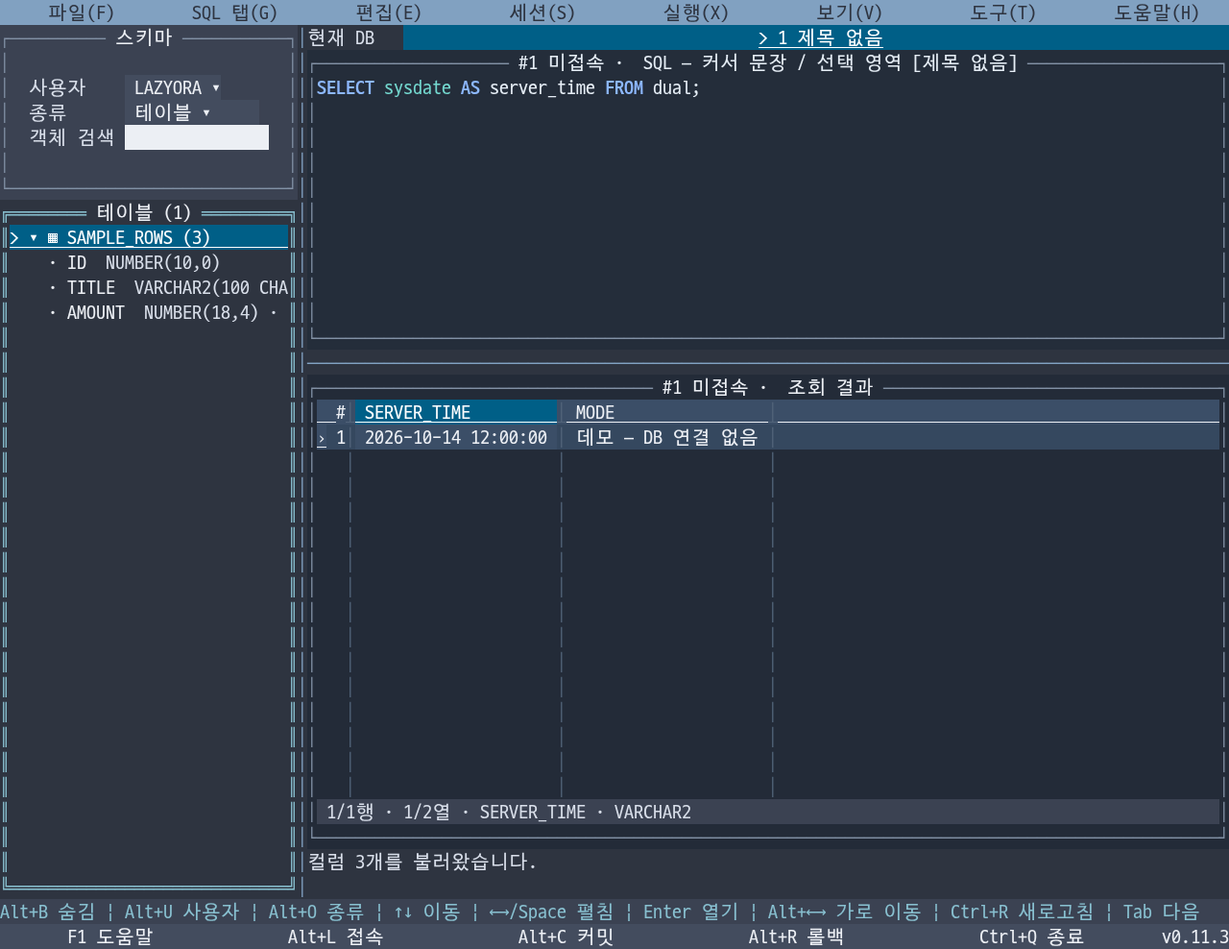
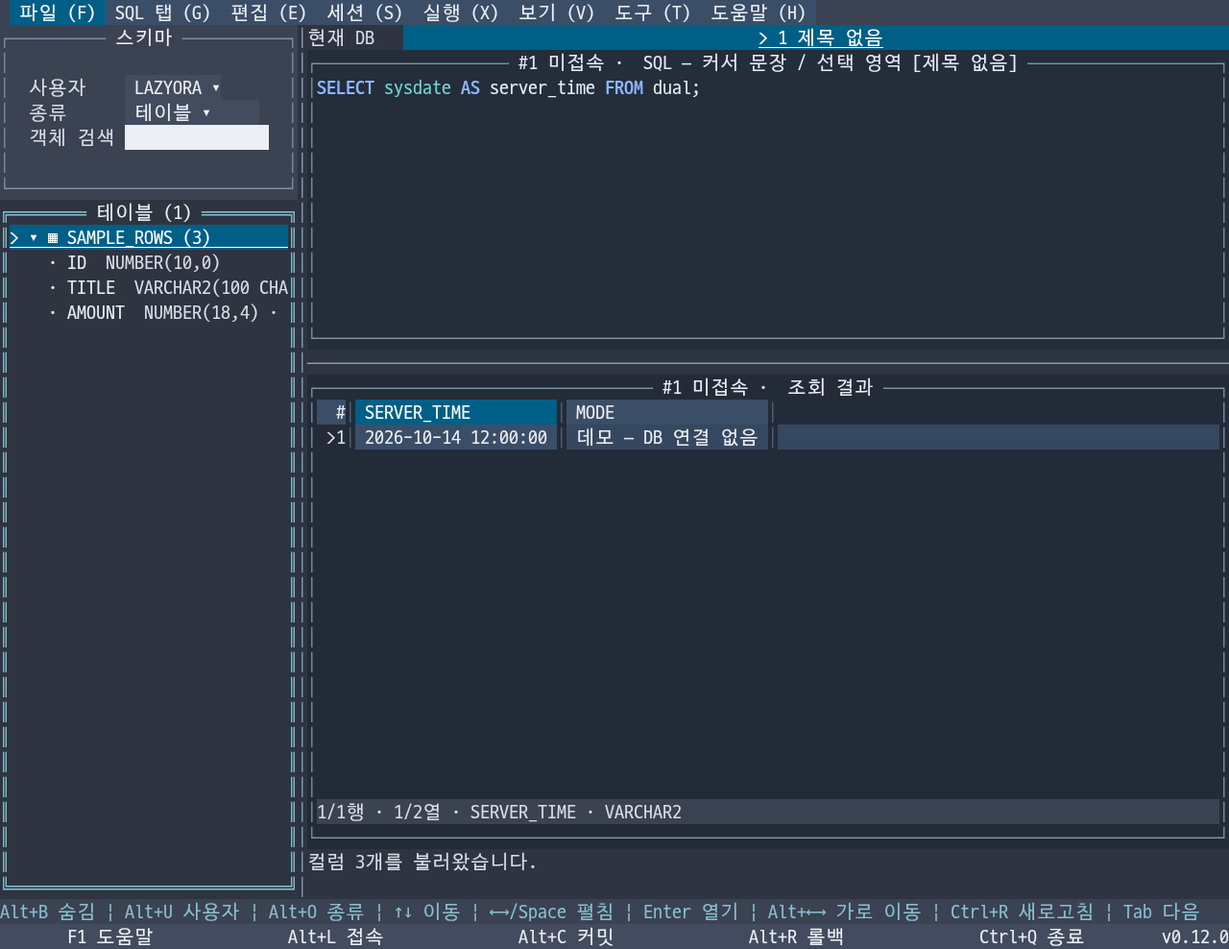
chore: LORA-76 v0.12.0 릴리스와 한영 안내 및 화면 준비

diff --git a/internal/appinfo/info.go b/internal/appinfo/info.go
@@ -4,7 +4,7 @@ package appinfo
 const (
 	ProjectURL = "https://github.com/leechis7/lazyora"
 	Name       = "LazyOra"
-	Version    = "0.11.3"
+	Version    = "0.12.0"
 	Developer  = "이채강 (Chaekang Lee)"
 	Email      = "leechis7@gmail.com"
 	License    = "AGPL-3.0-only"

diff --git a/docs/releases/v0.12.0.md b/docs/releases/v0.12.0.md
@@ -1,0 +1,32 @@
+[한국어](v0.12.0.md) | [English](../en/releases/v0.12.0.md)
+
+LazyOra v0.12.0은 공개 Tuivory Go v0.4.0의 공통 메뉴·결과 그리드와 표면 스타일을 적용한 기능 릴리스입니다.
+
+### 변경
+
+- 공통 메뉴 막대·중첩 메뉴·뒤로 이동·구분선·비활성 표시·포인터 탐색을 사용합니다. F10·Shift+F10·Alt 진입, ←/→ 상위 메뉴 이동, 원래 창 포커스 복원은 유지합니다.
+- 결과 본체를 같은 공통 Grid의 data 프리셋/옵션으로 그립니다. 행 번호·구분선·줄무늬·숫자 정렬·현재/범위/변경 셀·상태줄을 연결하고, **헤더의 컬럼 구분선을 드래그해 열 너비를 조절**할 수 있습니다. 기존 너비 명령도 유지합니다.
+- 메뉴 단일선·제목·배경·한글 경계 보호를 공개 PanelView에 맡기고 별도 테두리 우회 구성을 제거했습니다. 일반 포커스 패널의 이중선은 유지합니다.
+- 일반 글자를 실제 표면에 맞추고 비활성 항목은 회색/Dim으로 표시합니다. 비활성 접두사를 제거하고 클릭·포커스·실행은 차단합니다. 8색 Dim의 실제 밝기는 터미널에 따라 다릅니다.
+- 현재 행 표식은 `>`, 공통 폭 생략은 `~`입니다. 미커밋 셀 배경·상태줄 `*`는 유지하고 행번호 `*`는 생략합니다. 원본 값·ROWID 매핑·편집 확인·커밋/롤백·복사·내보내기와 기존 전역 단축키를 보존합니다.
+- 한영 사용/내장 가이드·README 및 실제 실행파일의 데모 화면을 갱신했습니다.
+
+### 검증과 범위
+
+전체 로컬 Go race(UI 208.583초), 정적 분석·Linux ARM64 빌드, 24개 언어/테마/색상 조합 및 새 12팔레트 비활성/표면 검사를 통과했습니다. 설정·DB 환경을 격리한 실제 한글/영어 Unicode·영어 ASCII PTY에서 일반 화면과 열린 메뉴의 총24회 SIGWINCH 크기 변경 이후 메뉴·복사·상세·접속 팝업·정상 종료와 설정 보존을 확인했습니다. 릴리스 버전·내장 문서·캡처도 추가 확인합니다.
+
+GitHub CI·Release는 전체 검사와 Linux/Windows/macOS AMD64/ARM64 빌드를 수행합니다. 실제 원격 단말·폰트·CentOS·다른 OS의 UI·새 Oracle 실DB 접속은 이번 검증과 구분합니다. Tuivory의 private playground 리사이즈 수정 코드를 복사하지 않았으며 LazyOra 자체 앱을 시험했습니다. 남은 LORA-76 앱 패널/분할/하단 개선은 이번 릴리스로 완료하지 않습니다.
+
+### 다운로드
+
+OS·CPU에 맞는 실행파일 하나와 `SHA256SUMS`를 확인하세요. Linux/macOS에서는 실행 권한을 부여합니다.
+
+- Linux: `lazyora-linux-amd64`, `lazyora-linux-arm64`
+- Windows: `lazyora-windows-amd64.exe`, `lazyora-windows-arm64.exe`
+- macOS: `lazyora-darwin-amd64`, `lazyora-darwin-arm64`
+
+### English summary
+
+LazyOra v0.12.0 adopts public Tuivory Go v0.4.0 menus, configurable result grids, single menu borders, surface-aware text and improved disabled cues. Drag header dividers to resize columns; retain existing shortcuts, original-value copy, guarded ROWID editing and transactions. Current-row/clipping markers are `>`/`~`; edited cells retain background/status `*`. See the [English release notes](https://github.com/leechis7/lazyora/blob/v0.12.0/docs/en/releases/v0.12.0.md).
+
+[전체 변경 이력](https://github.com/leechis7/lazyora/blob/v0.12.0/CHANGELOG.md)

diff --git a/docs/development.md b/docs/development.md
@@ -78,7 +78,7 @@ GitHub에서 CI 성공을 병합의 필수 조건으로 강제하려면 `dev`와
 
 ## Tuivory 스타일 가이드 반영
 
-Tuivory 자체 개발은 별도 프로젝트에서 진행합니다. 정식 v0.11.2는 `github.com/leechis7/tuivory/go v0.2.0`을 포함합니다. 개발 의존성과 공통 UI 우선 원칙은 아래 항목을 따릅니다. LazyOra에서는 공개 Go 스타일 패키지를 import하고, 검토한 버전의 변경을 LORA 일감에서 적용·검증합니다. Tuivory 소스를 복사하거나 로컬 경로로 replace하지 않습니다. 출처 커밋, 변경 원칙, LazyOra 적용 위치, 검증과 보류 사유는 [반영 기록](tuivory-sync.md)에 남깁니다. 공통 가이드와 Oracle/Toad 관련 제품 동작을 구분하며 커밋·게시·릴리스 승인은 기존 절차를 따릅니다.
+Tuivory 자체 개발은 별도 프로젝트에서 진행합니다. v0.12.0은 `github.com/leechis7/tuivory/go v0.4.0`을 포함합니다. 개발 의존성과 공통 UI 우선 원칙은 아래 항목을 따릅니다. LazyOra에서는 공개 Go 스타일 패키지를 import하고, 검토한 버전의 변경을 LORA 일감에서 적용·검증합니다. Tuivory 소스를 복사하거나 로컬 경로로 replace하지 않습니다. 출처 커밋, 변경 원칙, LazyOra 적용 위치, 검증과 보류 사유는 [반영 기록](tuivory-sync.md)에 남깁니다. 공통 가이드와 Oracle/Toad 관련 제품 동작을 구분하며 커밋·게시·릴리스 승인은 기존 절차를 따릅니다.
 
 
 ## 한국어·영어 문서 유지
@@ -94,4 +94,4 @@ Tuivory 자체 개발은 별도 프로젝트에서 진행합니다. 정식 v0.11
 
 공통 그리기·테두리/겹침 보호·컨트롤·스타일은 공개 Tuivory API를 먼저 확인해 사용합니다. 같은 결함을 LazyOra와 Tuivory에 별도로 고치지 않습니다. 공통 API가 없으면 별도 Tuivory 프로젝트에서 제공할 범위를 정하고, 제공 후 LazyOra에서 어댑터로 연결합니다. Oracle 실행·트랜잭션·탭/작업공간의 데이터 소유권·명령과 언어/ASCII 선호 정책은 제품 책임입니다. tview 위젯은 Tuivory Styler로 스타일을 적용하며, 새 모델/위젯으로 옮길 때 기존 입력·포커스·팝업 차단·복사·데이터 안전을 검증합니다.
 
-현재 공개 `github.com/leechis7/tuivory/go v0.2.0`(태그 `go/v0.2.0`, 커밋 `987d1a6786033a6bf063235b5e7fea7b565f0af0`)을 고정합니다. 팝업 전체는 `WideSafeScreen`, 폼/버튼 등의 제한 폭 라벨은 `CellText`에 위임합니다. 로컬 `popupFill`은 제거했습니다. v0.11.2에 포함되며 기존 v0.11.1 자산은 v0.1.0을 유지합니다. [적용·보류 검토](audits/lora-76-tuivory.md)를 참고하세요.
+현재 공개 `github.com/leechis7/tuivory/go v0.4.0`(태그 `go/v0.4.0`, 커밋 `fef7a7b2247d1c68ef0fb1469e6a2fc2e1cec9b5`)을 고정합니다. 공통 메뉴/그리드·메뉴 PanelView·TextOnSurface를 소비하고 폼 팝업 전체는 WideSafeScreen, 제한 폭 라벨은 CellText에 위임합니다. 독자 그리드 본체·메뉴 테두리 우회·popupFill을 제거했습니다. 현재 적용과 보류는 [반영 기록](tuivory-sync.md)을 참고하세요. 과거 v0.11.3은 v0.2.0을 포함하며 기존 자산은 바꾸지 않습니다.

diff --git a/docs/en/usage.md b/docs/en/usage.md
@@ -2,7 +2,7 @@
 
 [한국어](../usage.md) | **English** · [Documentation](index.md) · [Offline guide](../guide.en.md)
 
-This guide covers v0.11.2 workflows. Its input, selection, button, grid and popup styles use **Tuivory v0.2.0**, included in the executable. Choose Dark/Light/Black-White in Tools → Settings; terminal capability independently selects 8/16/256/True Color rendering. See [UI style rules](ui-style.md).
+This guide covers v0.12.0 workflows. Its input, selection, button, grid and popup styles use **Tuivory v0.4.0**, included in the executable. Choose Dark/Light/Black-White in Tools → Settings; terminal capability independently selects 8/16/256/True Color rendering. See [UI style rules](ui-style.md).
 
 v0.11.2 uses the published Tuivory **v0.2.0** tree. User/type selectors and live object filtering remain. On a table or view, use **Right/Space or click the disclosure arrow** to fetch columns and data types. **Left** collapses or moves to the parent; **Alt+Left/Right** pans long names. **Enter or clicking a name** opens the existing object details. Columns are fetched on expansion and cached for the current list; Ctrl+R refresh, owner changes and reconnects clear the cache. Collapse and re-expand after failure/cancellation to retry. Existing Esc cancellation and work-protection rules apply during queries.
 
@@ -110,10 +110,10 @@ Ctrl+C copies retained output, Alt+D clears the display and Esc closes the view 
 
 For password storage, terminal key mappings and environment-specific evidence, see [Credentials](credentials.md), [Terminal troubleshooting](terminal.md) and [Compatibility](compatibility.md).
 
-### Menus and result grid in unreleased sources
+### Menus and result grid in v0.12.0
 
 Current sources use the common Tuivory v0.4.0 menu/grid. Navigate menus with Up/Down, Home/End and PgUp/PgDn; Enter invokes a command or enters a child group. Disabled entries are skipped and cannot execute by click. Left/Esc or Back returns to the parent; top-level Esc restores the calling panel. Right retains the existing next-top-level-menu policy.
 
-Drag a column divider in the grid header to resize; existing width menus/keyboard commands remain. The current-row marker is `>` and long cells/menus use `~` for clipping. Enter/double-click editing, Shift+arrows/mouse ranges, row-number row selection, Ctrl+C/Alt+Y original-value copying, F10 menu and F12 result maximization remain. Edited-cell backgrounds and status `*` indicate uncommitted work; row-number `*` is omitted. These changes are not in the released v0.11.3 assets yet.
+Drag a column divider in the grid header to resize; existing width menus/keyboard commands remain. The current-row marker is `>` and long cells/menus use `~` for clipping. Enter/double-click editing, Shift+arrows/mouse ranges, row-number row selection, Ctrl+C/Alt+Y original-value copying, F10 menu and F12 result maximization remain. Edited-cell backgrounds and status `*` indicate uncommitted work; row-number `*` is omitted. These changes are included in v0.12.0.
 
 In v0.4.0 the shared package renders menu single borders and clipped titles. Disabled entries use gray/Dim without an ordinary prefix and cannot be focused/activated. Eight-color Dim brightness depends on the terminal. Ordinary information text uses the actual card/panel background.

diff --git a/docs/ui-style.md b/docs/ui-style.md
@@ -4,7 +4,7 @@
 
 공통 설계 원칙의 상위 출처는 [Tuivory](https://github.com/leechis7/tuivory)입니다. LazyOra 적용 기준과 마지막 확인 커밋은 [Tuivory 가이드 반영 기록](tuivory-sync.md)에 남깁니다. 아래 문서는 LazyOra의 실제 컴포넌트·단축키·상태 처리에 맞춘 적용 규칙입니다.
 
-v0.11.2 공통 스타일의 원본은 **Tuivory v0.2.0** (`github.com/leechis7/tuivory/go`)입니다. 단일 공개 패키지 `tuivory`의 `Styles`, `Styler`, `Choice`와 상태 스타일 메서드를 import합니다. `internal/ui/style_tokens.go`는 패키지 값과 제품 역할을 연결하고, `theme.go`·`widgets.go`는 공통 API를 기존 위젯에 적용합니다. 실제 의존 버전은 `go.mod`와 [적용 기록](tuivory-sync.md)에 고정합니다.
+v0.12.0 공통 스타일의 원본은 **Tuivory v0.4.0** (`github.com/leechis7/tuivory/go`)입니다. 단일 공개 패키지 `tuivory`의 `Styles`, `Styler`, `Choice`와 상태 스타일 메서드를 import합니다. `internal/ui/style_tokens.go`는 패키지 값과 제품 역할을 연결하고, `theme.go`·`widgets.go`는 공통 API를 기존 위젯에 적용합니다. 실제 의존 버전은 `go.mod`와 [적용 기록](tuivory-sync.md)에 고정합니다.
 새 화면을 추가할 때 기본 tview 색상에 맡기지 않고 생성 시점부터 현재 테마를 적용합니다.
 
 | 역할 | 공통 표시 |
@@ -69,6 +69,6 @@ v0.11.2의 LORA-78 변경은 공통 Tuivory v0.2.0 트리의 ASCII 옵션과 Laz
 
 ## 개발 소스: 메뉴·그리드 컴포넌트
 
-미배포 소스는 Tuivory v0.4.0의 Menu/MenuView/MenuBarView 및 Grid/GridView(data 프리셋)를 사용합니다. 메뉴 항목·배치·앱 키·명령과 그리드 원본 데이터·편집·복사 정책은 LazyOra가 관리합니다. 본체 그리기·클리핑·범위/포인터 조작은 공개 컴포넌트에 위임합니다. 현재 행 표식은 `>`이며 변경 셀의 배경·상태줄 `*`를 사용합니다. 행 번호의 `*`는 표시하지 않습니다. [출처·표시 차이·검증](tuivory-sync.md)을 참고하세요.
+v0.12.0은 Tuivory v0.4.0의 Menu/MenuView/MenuBarView 및 Grid/GridView(data 프리셋)를 사용합니다. 메뉴 항목·배치·앱 키·명령과 그리드 원본 데이터·편집·복사 정책은 LazyOra가 관리합니다. 본체 그리기·클리핑·범위/포인터 조작은 공개 컴포넌트에 위임합니다. 현재 행 표식은 `>`이며 변경 셀의 배경·상태줄 `*`를 사용합니다. 행 번호의 `*`는 표시하지 않습니다. [출처·표시 차이·검증](tuivory-sync.md)을 참고하세요.
 
 메뉴 단일선·제목·배경은 공통 PanelView가 처리하며 앱의 별도 테두리 Box는 제거했습니다. 일반 텍스트는 TextOnSurface로 실제 표면에 연결합니다. 일반 글자 참조 대비 4.5:1을 유지하되 비활성은 공통 2:1 목표·회색/Dim·입력 차단으로 구분합니다. 8색 단말에서 Dim의 실제 밝기는 단말별로 다릅니다. 입력·선택·편집 배경은 덮어쓰지 않습니다.

diff --git a/README.en.md b/README.en.md
@@ -6,9 +6,9 @@
 
 LazyOra aims to make everyday Oracle development and inspection practical in a terminal, including over SSH, without installing Toad or purchasing its commercial license. It adapts familiar Toad workflows and shortcuts to a TUI. It is an independent project under active development, not a complete replacement for every Toad feature.
 
-Current version: **0.11.3** · **Linux / Windows / macOS · AMD64 / ARM64**
+Current version: **0.12.0** · **Linux / Windows / macOS · AMD64 / ARM64**
 
-v0.11.3 removes redundant schema-column icons to recover space for names and data types. See the [release notes](docs/en/releases/v0.11.3.md).
+v0.12.0 adopts Tuivory v0.4.0 common menus/results, header-divider resizing, single menu borders, surface-aware text and disabled cues. See the [release notes](docs/en/releases/v0.12.0.md).
 
 - Oracle SQL/PL/SQL syntax highlighting, files and multiple SQL tabs, cursor-statement execution, F5 scripts and IN bind variables.
 - Estimated execution plans, result copying, CSV/TSV/Excel/INSERT export, and manual commit/rollback.
@@ -16,9 +16,11 @@ v0.11.3 removes redundant schema-column icons to recover space for names and dat
 - DBMS_OUTPUT, routine execution, object DDL/privileges/dependencies, additional result fetching, sorting/filtering, cell details and guarded editing.
 - Toad (default), Vim, Notepad++, VS Code and IntelliJ IDEA editor keymaps; completion, formatting, dark/light/black-and-white themes, and Korean/English UI.
 
+v0.12.0 adopts Tuivory v0.4.0 common menus and result grids. Resize columns by dragging header dividers or using existing menus. See [scope and verification](docs/en/tuivory-sync.md).
+
 ![LazyOra: menus, schema browser, SQL editor, result grid and context-sensitive shortcuts](docs/images/lazyora-overview.png)
 
-*v0.11.3 · Dark theme · English UI · DB-free executable --demo output captured through a PTY.*
+*v0.12.0 · Dark theme · English UI · local DB-free executable --demo PTY capture.*
 
 ## Quick start
 
@@ -85,7 +87,7 @@ Korean remains the primary documentation language. Historical audits, detailed d
 
 ## Implementation and shared UI
 
-**In v0.11.2, [Tuivory](https://github.com/leechis7/tuivory) v0.2.0** provides common themes, color profiles, input/choice/button/table/popup styles, grid states and syntax colors through `github.com/leechis7/tuivory/go`. Release users do not install a separate package.
+**In v0.12.0, [Tuivory](https://github.com/leechis7/tuivory) v0.4.0** provides common themes, color profiles, input/choice/button/table/popup styles, grid states and syntax colors through `github.com/leechis7/tuivory/go`. Release users do not install a separate package.
 
 tview/tcell handle terminal rendering and input; go-ora handles Oracle communication. LazyOra retains SQL parsing for display, database execution and transactions, Toad keymaps, grid data and application state. See [UI style rules](docs/en/ui-style.md) and [Tuivory integration](docs/en/tuivory-sync.md).
 

diff --git a/docs/en/development.md b/docs/en/development.md
@@ -49,7 +49,7 @@ After publication, verify assets/checksums and the actual executable version, sy
 
 ## Dependencies and UI
 
-Published LazyOra v0.11.2 pins **Tuivory v0.2.0**, `github.com/leechis7/tuivory/go`, including its public tree component. LazyOra v0.11.0 includes the new tree. Develop Tuivory itself separately. Review public versions/commits and import the module; do not copy it or replace it with a local checkout. Record updates in [Tuivory integration](tuivory-sync.md) and use [UI adapters](ui-style.md).
+LazyOra v0.12.0 pins **Tuivory v0.4.0**, `github.com/leechis7/tuivory/go`, including its public tree component. LazyOra v0.11.0 includes the new tree. Develop Tuivory itself separately. Review public versions/commits and import the module; do not copy it or replace it with a local checkout. Record updates in [Tuivory integration](tuivory-sync.md) and use [UI adapters](ui-style.md).
 
 The tview v0.42.0 local fork adds SQL TextArea highlighting. Its source difference is confined to `textarea.go`; retain the upstream MIT notice and rendering checks. Workflow Actions are pinned to commit SHAs; Go toolchain versions are coordinated with `mise.toml`. Module downloads retry transient failures, but actual check failures remain failures.
 
@@ -63,4 +63,4 @@ Korean is primary. New/changed README, user/developer guidance and release descr
 
 Check and use public Tuivory APIs first for shared drawing, borders/overlap repair, controls and styles. Do not maintain independent fixes for the same defect in both projects. Define missing shared capabilities in the separate Tuivory project, then integrate published APIs through LazyOra adapters. Oracle execution/transactions, tab/workspace data ownership, commands and language/ASCII preference policy remain product responsibilities. Style tview widgets with Tuivory Styler; preserve input, focus, modal isolation, copying and data safety when adopting new models/views.
 
-The release pins public `github.com/leechis7/tuivory/go v0.2.0`, tag `go/v0.2.0`, source `987d1a6786033a6bf063235b5e7fea7b565f0af0`. Delegate the whole popup draw to `WideSafeScreen` and clipped form/button labels to `CellText`; remove local `popupFill`. This ships in v0.11.2; existing v0.11.1 assets retain v0.1.0. See [adoption/defer review](../audits/lora-76-tuivory.md).
+Pin public `github.com/leechis7/tuivory/go v0.4.0`, tag `go/v0.4.0`, source `fef7a7b2247d1c68ef0fb1469e6a2fc2e1cec9b5`. Consume shared menus/GridView, menu PanelView and TextOnSurface; delegate whole form-popup draws to WideSafeScreen and clipped labels to CellText. Remove local grid-body rendering, menu-border workarounds and popupFill. See [adoption and remaining work](tuivory-sync.md). Earlier v0.11.3 retains v0.2.0; existing assets are unchanged.

diff --git a/docs/usage.md b/docs/usage.md
@@ -432,10 +432,10 @@ VS Code는 Ctrl+A 전체 선택, Ctrl+Space 자동완성, Alt+↑↓ 줄 이동,
 
 방향키·PgUp/PgDn으로 탐색하며 헤더와 기능 열은 고정됩니다. 선택한 셀의 기능·키맵·단축키 전문은 표 아래의 상세 영역에 줄바꿈해 표시합니다. Enter로 표/상세를 전환하고, 상세에서 방향키·PgUp/PgDn·Home/End로 스크롤합니다. Tab/Shift+Tab은 표·상세·닫기 버튼을 순환합니다. Ctrl+C로 표 전체를 TSV로 복사하고 Esc로 이전 화면에 돌아갑니다. 표는 실행용 메뉴가 아니므로 셀 선택이나 Enter로 DB 작업을 실행하지 않습니다.
 
-### 미배포 소스의 메뉴·결과 그리드
+### v0.12.0 메뉴·결과 그리드
 
 현재 소스는 Tuivory v0.4.0의 공통 메뉴·그리드를 사용합니다. 메뉴에서 ↑/↓·Home/End·PgUp/PgDn으로 이동하고 Enter로 실행하거나 하위 메뉴에 들어갑니다. 비활성 항목은 건너뛰며 클릭해도 실행되지 않습니다. ←/Esc 또는 뒤로 항목은 부모로 돌아가고 최상위 Esc는 원래 창으로 복귀합니다. →는 기존처럼 다음 상위 메뉴로 이동합니다.
 
-그리드 헤더의 컬럼 구분선을 드래그해 너비를 조절할 수 있으며 기존 너비 메뉴·키보드 명령도 유지합니다. 현재 행 표식은 `>`이고 긴 셀·메뉴는 `~`로 생략합니다. Enter/더블클릭 편집, Shift+화살표·마우스 범위, 행번호 클릭 한 행 선택, Ctrl+C/Alt+Y 원문 복사, F10 메뉴·F12 결과 최대화는 유지합니다. 변경 셀의 별도 배경과 상태줄 `*`로 미커밋 상태를 확인하며 행번호의 `*`는 표시하지 않습니다. 정식 v0.11.3 자산에는 이 변경이 아직 포함되지 않습니다.
+그리드 헤더의 컬럼 구분선을 드래그해 너비를 조절할 수 있으며 기존 너비 메뉴·키보드 명령도 유지합니다. 현재 행 표식은 `>`이고 긴 셀·메뉴는 `~`로 생략합니다. Enter/더블클릭 편집, Shift+화살표·마우스 범위, 행번호 클릭 한 행 선택, Ctrl+C/Alt+Y 원문 복사, F10 메뉴·F12 결과 최대화는 유지합니다. 변경 셀의 별도 배경과 상태줄 `*`로 미커밋 상태를 확인하며 행번호의 `*`는 표시하지 않습니다. 이 변경은 v0.12.0에 포함됩니다.
 
 v0.4.0에서는 메뉴 단일선과 폭 제한 제목을 공통 패키지가 처리합니다. 비활성 항목은 별도 접두사 대신 회색/Dim으로 표시하고 선택·실행을 막습니다. 8색 단말에서 Dim의 실제 밝기는 단말 구현에 따라 다릅니다. 일반 안내 글자의 배경은 실제 카드·패널 바탕에 맞춥니다.

diff --git a/docs/en/releases/v0.12.0.md b/docs/en/releases/v0.12.0.md
@@ -1,0 +1,28 @@
+[한국어](../../releases/v0.12.0.md) | **English**
+
+LazyOra v0.12.0 is a feature release adopting published Tuivory Go v0.4.0 menus, configurable result grids and surface styling.
+
+### Changes
+
+- Shared menu bars, nesting/back, separators, disabled presentation and pointer navigation. Preserve F10/Shift+F10/Alt entry, Left/Right top-level navigation and caller-panel restoration.
+- Render results through the same common Grid's data preset/options: row numbers, dividers, stripes, numeric alignment, current/range/edited cells and status. **Drag header column dividers to resize**, retaining existing width commands.
+- Public PanelView owns menu single borders, titles, backgrounds and wide-glyph protection; remove the separate border workaround. Ordinary focused panels retain double borders.
+- Bind ordinary text to its actual surface and show inactive entries in gray/Dim without ordinary prefixes. Block disabled focus/click/activation. Actual eight-color Dim brightness is terminal-dependent.
+- Current-row/clipping markers are `>`/`~`. Edited-cell backgrounds/status `*` remain; row-number `*` is omitted. Preserve original values, ROWID mappings, edit confirmations, transactions, copy/export and global shortcuts.
+- Refresh bilingual usage/offline guides, README and actual executable demo captures.
+
+### Verification and scope
+
+Passed full local Go race (UI 208.583 s), vet/Linux ARM64 build, 24 language/theme/color combinations and the new 12-palette disabled/surface test. Three isolated actual PTYs (Korean/English Unicode and English ASCII) exercised 24 SIGWINCH resizes across the main screen/open menus, followed by working menu/copy/details/connection/exit operations with unchanged settings. Release-version/embedded-doc/capture checks follow preparation.
+
+GitHub CI/Release runs complete checks and Linux/Windows/macOS AMD64/ARM64 builds. Real remote terminals/fonts/CentOS/other-OS UI/new live Oracle connections are outside these checks. Do not copy the private Tuivory playground resize fix: LazyOra's own app was exercised. Remaining LORA-76 application panel/split/footer work is not completed by this release.
+
+### Downloads
+
+Choose one executable for your OS/CPU and verify `SHA256SUMS`. Set executable permission on Linux/macOS.
+
+- Linux: `lazyora-linux-amd64`, `lazyora-linux-arm64`
+- Windows: `lazyora-windows-amd64.exe`, `lazyora-windows-arm64.exe`
+- macOS: `lazyora-darwin-amd64`, `lazyora-darwin-arm64`
+
+[Full bilingual changelog](https://github.com/leechis7/lazyora/blob/v0.12.0/CHANGELOG.md)

diff --git a/docs/en/ui-style.md b/docs/en/ui-style.md
@@ -2,7 +2,7 @@
 
 [한국어](../ui-style.md) | **English** · [Documentation](index.md)
 
-In **v0.11.2**, common styles come from **Tuivory v0.2.0**, the public Go module `github.com/leechis7/tuivory/go`. Its single `tuivory` package supplies `Styles`, `Styler`, `Choice` and state-style methods. The pinned version is in `go.mod`; see [integration and updates](tuivory-sync.md).
+In **v0.12.0**, common styles come from **Tuivory v0.4.0**, the public Go module `github.com/leechis7/tuivory/go`. Its single `tuivory` package supplies `Styles`, `Styler`, `Choice` and state-style methods. The pinned version is in `go.mod`; see [integration and updates](tuivory-sync.md).
 
 LazyOra's `internal/ui/style_tokens.go` adapts package values to product roles. It does not own a second palette. `theme.go` and `widgets.go` apply styles to existing widgets. Oracle execution, transactions, SQL display lexing, Toad keymaps, grid data, focus and modal input routing remain application responsibilities.
 
@@ -60,6 +60,6 @@ Prefer public Tuivory APIs for shared rendering, controls and styles. Tuivory v0
 
 ## Development sources: menu and grid components
 
-Unreleased sources use Tuivory v0.4.0 Menu/MenuView/MenuBarView and Grid/GridView (data preset). LazyOra owns menu content/placement/global keys/actions and grid originals/edit/copy policy. Public components own body rendering, clipping and range/pointer interaction. The current-row marker is `>`; edited cells use their background and status `*`, without a row-number `*`. See [source, visual differences and verification](tuivory-sync.md).
+v0.12.0 uses Tuivory v0.4.0 Menu/MenuView/MenuBarView and Grid/GridView (data preset). LazyOra owns menu content/placement/global keys/actions and grid originals/edit/copy policy. Public components own body rendering, clipping and range/pointer interaction. The current-row marker is `>`; edited cells use their background and status `*`, without a row-number `*`. See [source, visual differences and verification](tuivory-sync.md).
 
 Common PanelView owns menu single borders/titles/surfaces; remove the separate border Box. TextOnSurface binds ordinary text to its real surface. Ordinary reference contrast remains 4.5:1; distinguish disabled controls with the shared 2:1 target, gray/Dim and input exclusion. Eight-color Dim brightness is terminal-dependent. Do not overwrite input/selection/edited backgrounds.

diff --git a/CHANGELOG.md b/CHANGELOG.md
@@ -4,6 +4,16 @@
 
 ## [Unreleased]
 
+## [0.12.0] - 2026-10-30
+
+### 개선 / Changed
+
+- LORA-76: 공통 PanelView의 메뉴 단일선을 사용해 별도 테두리 박스를 제거하고, 표면 기반 텍스트·비활성 회색/Dim·접두사 제거를 적용합니다. 상태 배경과 비활성 입력 차단을 유지합니다.
+- LORA-76: Use common PanelView menu single borders, removing the separate border Box; adopt surface-aware text and gray/Dim disabled presentation without ordinary prefixes, preserving state backgrounds and disabled input exclusion.
+
+- LORA-76: Tuivory Go v0.4.0 공개 메뉴·중첩 탐색·결과 Grid(data 프리셋)로 전환하고 독자 본체 그리기를 제거합니다. 기존 앱 키맵·원문 복사·ROWID 편집·트랜잭션 보호를 유지하며 헤더 구분선 드래그로 열 너비를 조절합니다. 현재 행 표식은 `>`, 공통 폭 생략 표식은 `~`이며 미커밋 셀 배경·상태줄 `*`를 사용합니다.
+- LORA-76: Adopt published Tuivory Go v0.4.0 menus/nested navigation and Grid (data preset), removing local body rendering. Preserve global keymaps, original-value copying, ROWID editing and transaction guards; drag header dividers to resize columns. Current-row/clipping markers are `>`/`~`; edited cells retain distinct backgrounds and status `*`.
+
 ## [0.11.3] - 2026-10-29
 
 ### 개선 / Changed
@@ -323,7 +333,8 @@ v0.0.1의 F2 접속은 Alt+L, F4 실행은 F9, F5 커밋은 Alt+C, F6 롤백은 
 - 이 릴리스 시점에는 실제 CentOS 7.4, 구형 Oracle 및 SID 접속 검증이 완료되지 않았습니다. 이후 호환성 수정은 `Unreleased`에 기록합니다.
 - 한 번에 SQL 한 문장 또는 BEGIN/DECLARE 블록 하나를 실행합니다. 여러 문장 일괄 실행, SQL*Plus 스크립트, 바인드 입력, DBMS_OUTPUT 출력은 지원하지 않습니다.
 
-[Unreleased]: https://github.com/leechis7/lazyora/compare/v0.11.3...dev
+[Unreleased]: https://github.com/leechis7/lazyora/compare/v0.12.0...dev
+[0.12.0]: https://github.com/leechis7/lazyora/compare/v0.11.3...v0.12.0
 [0.11.3]: https://github.com/leechis7/lazyora/compare/v0.11.2...v0.11.3
 [0.11.2]: https://github.com/leechis7/lazyora/compare/v0.11.1...v0.11.2
 [0.11.1]: https://github.com/leechis7/lazyora/compare/v0.11.0...v0.11.1
